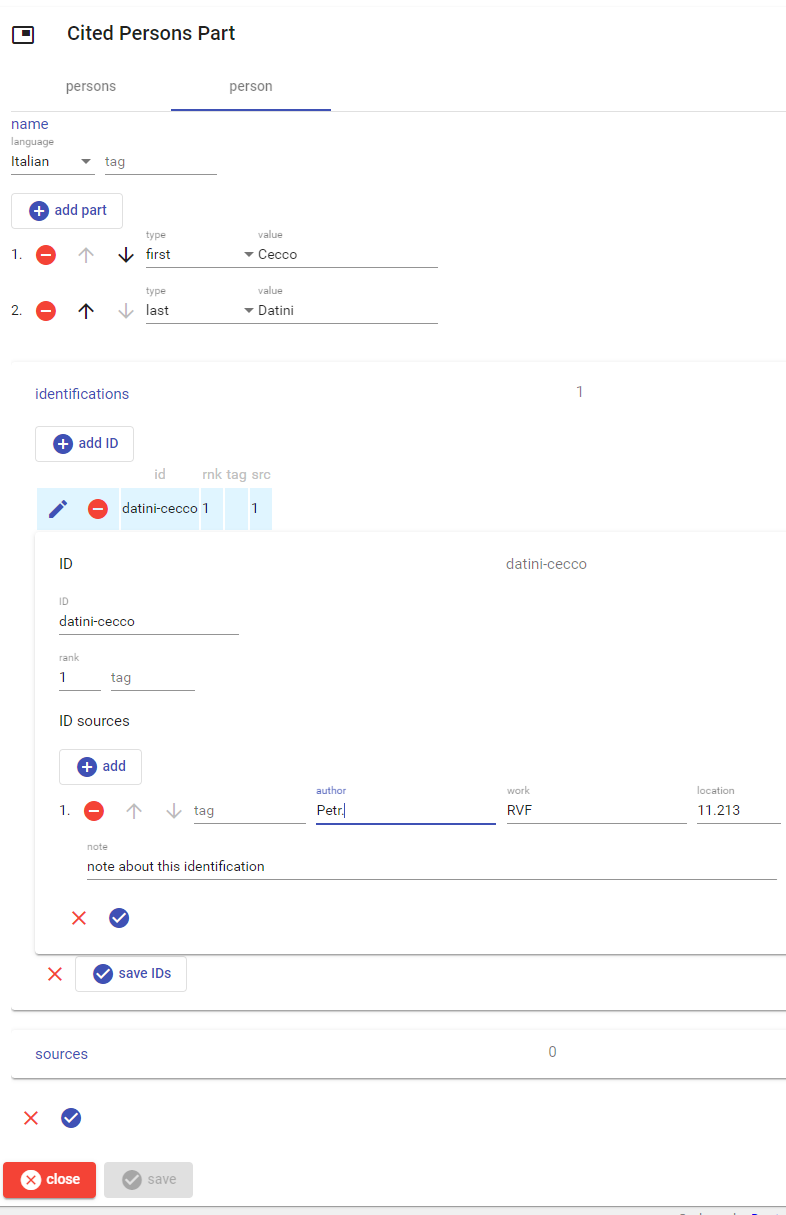
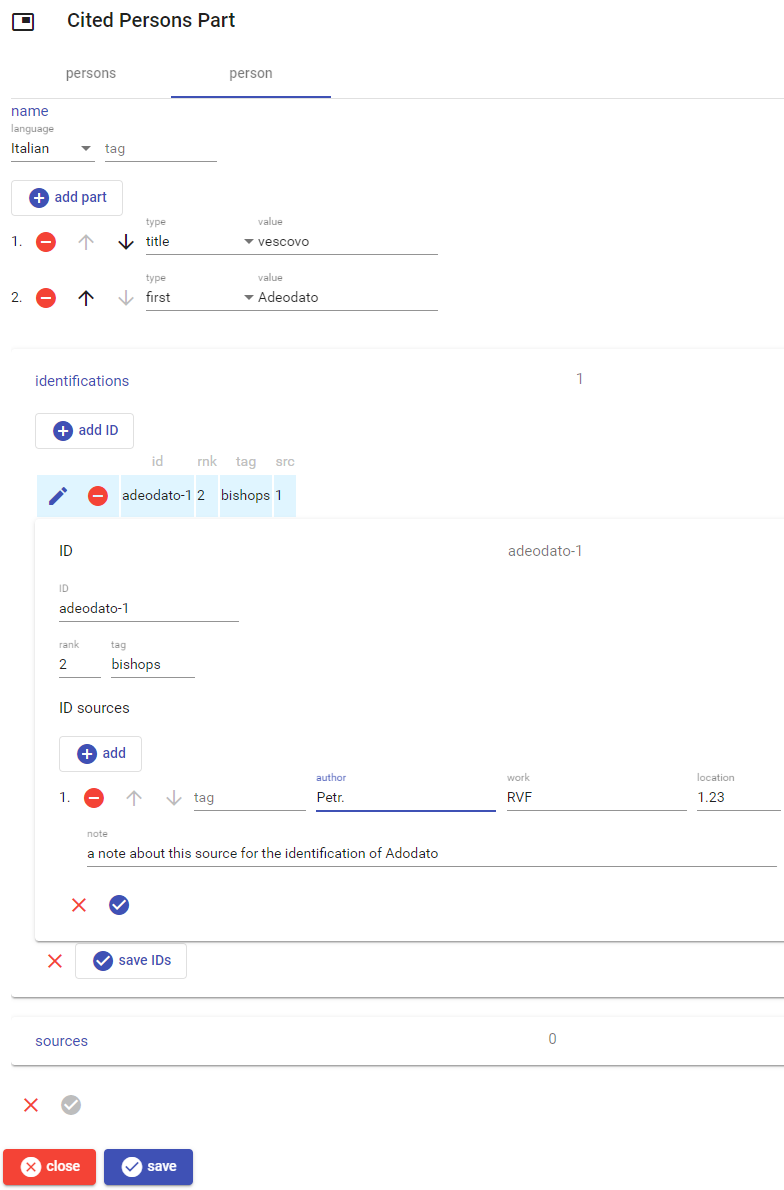
Person name

diff --git a/help/cited-persons-part.md b/help/cited-persons-part.md
@@ -1,0 +1,25 @@
+# Cited Persons Part
+
+This part contains a list of cited persons.
+
+![cited persons](./images/cited-persons-part-01.png)
+
+You can _add_ a new person by clicking the `add person` button, _edit_ a person by clicking the pen button next to it, and _delete_ a person using the red minus button next to it.
+
+When editing a person, you are presented with this UI:
+
+![cited persons](./images/cited-persons-part-02.png)
+
+The UI includes 3 sections for name, identifications, and sources. When you have finished editing the desired sections, click the round check button at the bottom to accept the changes, or the red `X` to discard them.
+
+## Name
+
+The person's name is a structured name, [edited as usual](./person-name.md).
+
+## Identifications
+
+The identifications are any number of proposed identifications for the cited person. Here too the editing is that used for the so-called "decorated IDs", i.e. arbitrary IDs with some metadata attached.
+
+## Sources
+
+The sources are any number of documentary references, edited as usual.

diff --git a/help/person-name.md b/help/person-name.md
@@ -1,0 +1,11 @@
+# Person Name
+
+The person name editor allows you to edit a structured personal name.
+
+This model includes a language for the name, an optional tag with any useful classification, and 1 or more name's parts.
+
+Each name's part has a type and a value. You pick the type from a list, and enter the value accordingly.
+
+![person name](./images/person-name-sub.png)
+
+Use the plus button to add a new part, and the buttons next to each part to delete or move it up or down.

diff --git a/README.md b/README.md
@@ -21,3 +21,4 @@ This repository contains essential documentation about the Cadmus Itinera projec
 
 - [attachments](./help/attachments-part.md)
 - [chronotopics](./help/chronotopics-part.md)
+- [cited persons](./help/cited-persons-part.md)
